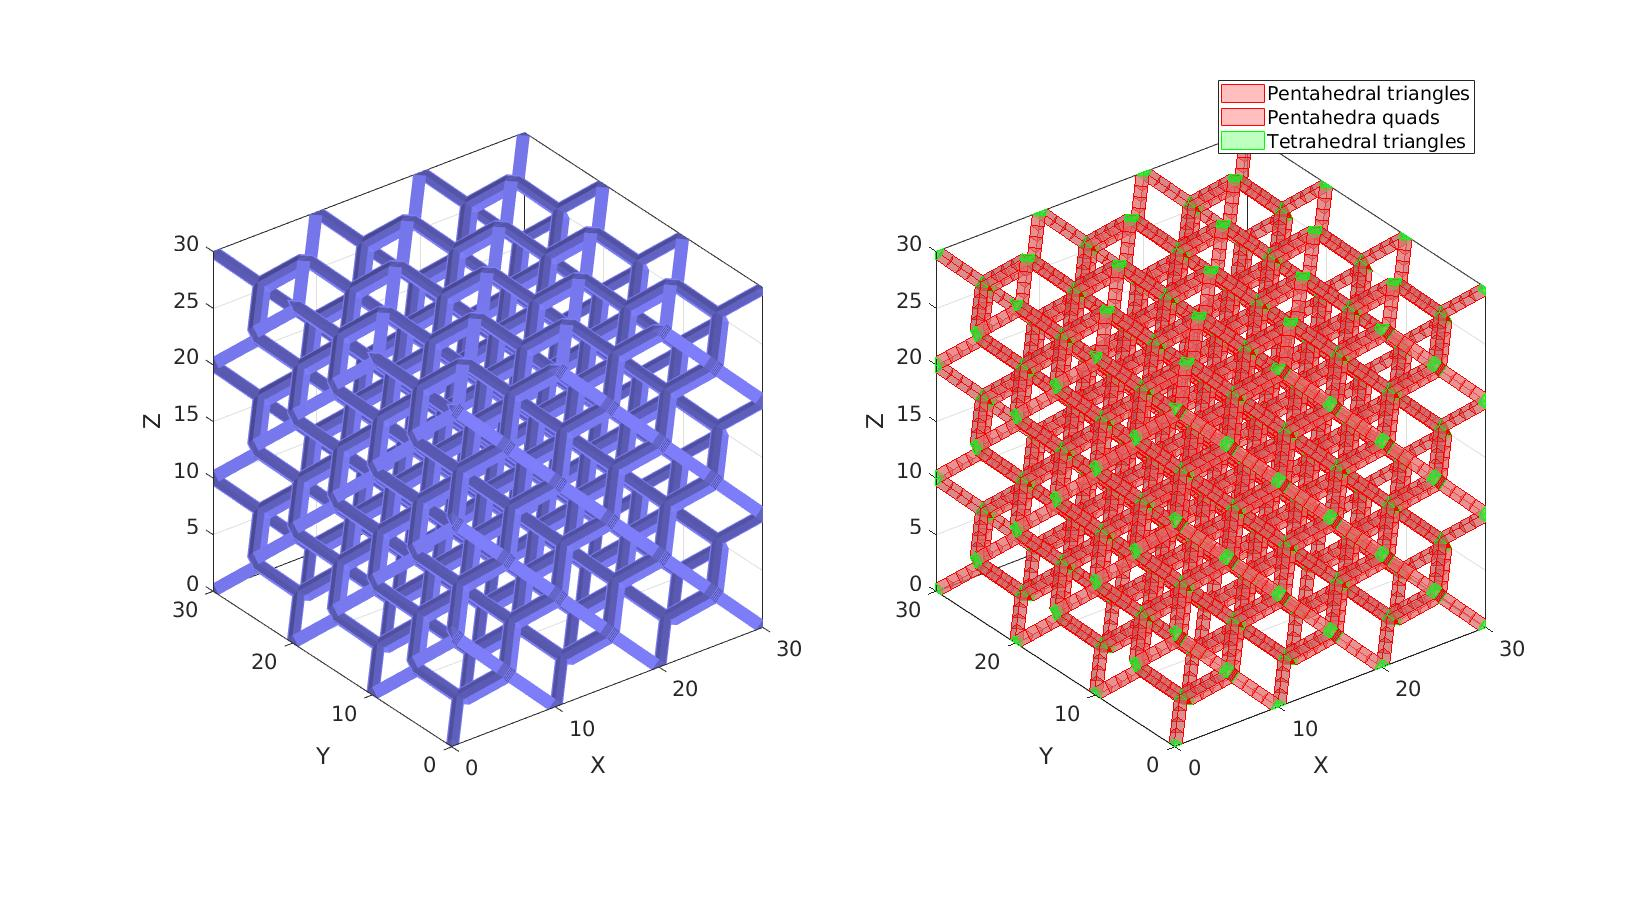
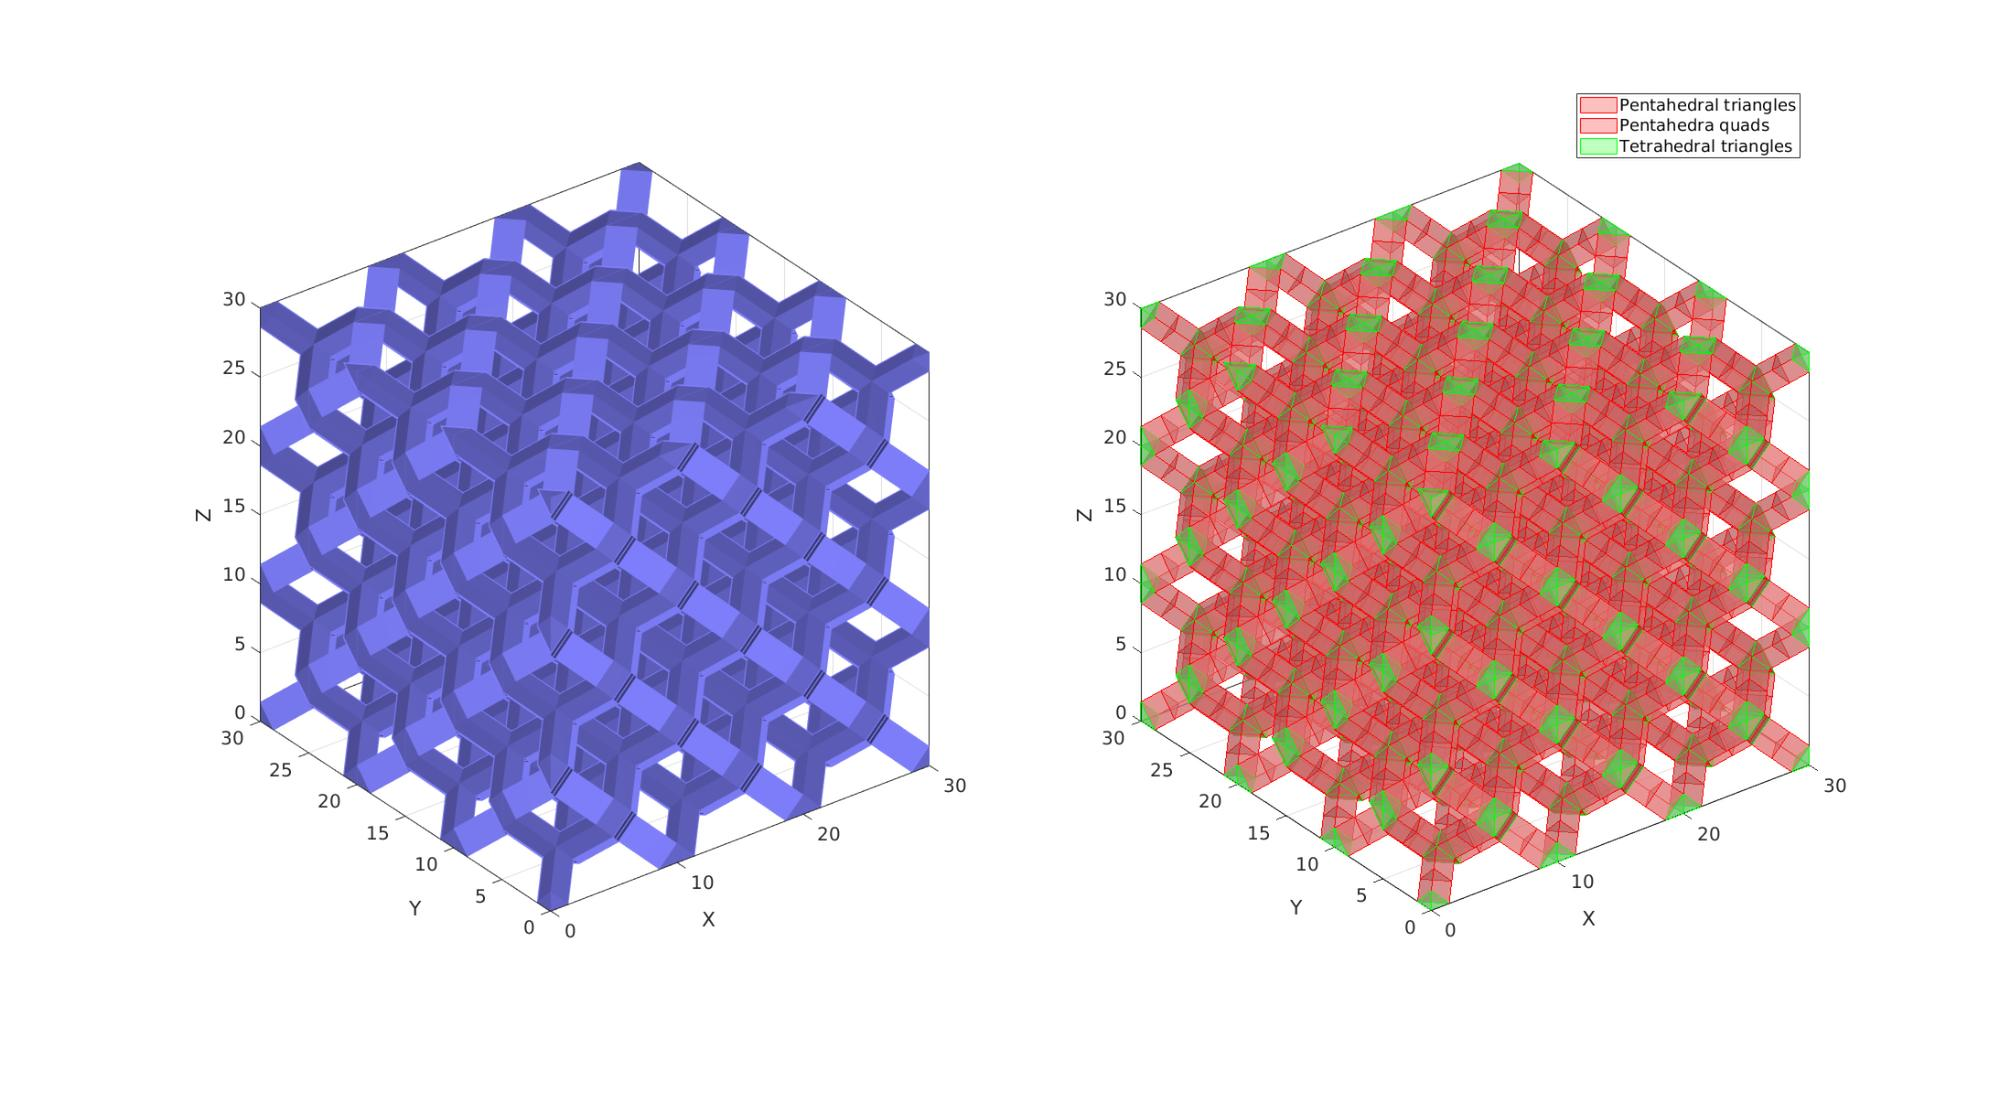
Updated diamond lattice documentation with loop subdivision demo

Changed region(s): [[0.528, 0.0615, 0.9318, 0.8606], [0.0932, 0.1537, 0.4659, 0.8606], [0.4659, 0.7069, 0.497, 0.7377]]

diff --git a/docs/html/HELP_diamondLattice.html b/docs/html/HELP_diamondLattice.html
@@ -6,7 +6,7 @@
    <!--
 This HTML was auto-generated from MATLAB code.
 To make changes, update the MATLAB code and republish this document.
-      --><title>diamondLattice</title><meta name="generator" content="MATLAB 9.10"><link rel="schema.DC" href="http://purl.org/dc/elements/1.1/"><meta name="DC.date" content="2021-05-11"><meta name="DC.source" content="HELP_diamondLattice.m"><style type="text/css">
+      --><title>diamondLattice</title><meta name="generator" content="MATLAB 9.10"><link rel="schema.DC" href="http://purl.org/dc/elements/1.1/"><meta name="DC.date" content="2021-08-18"><meta name="DC.source" content="HELP_diamondLattice.m"><style type="text/css">
 html,body,div,span,applet,object,iframe,h1,h2,h3,h4,h5,h6,p,blockquote,pre,a,abbr,acronym,address,big,cite,code,del,dfn,em,font,img,ins,kbd,q,s,samp,small,strike,strong,tt,var,b,u,i,center,dl,dt,dd,ol,ul,li,fieldset,form,label,legend,table,caption,tbody,tfoot,thead,tr,th,td{margin:0;padding:0;border:0;outline:0;font-size:100%;vertical-align:baseline;background:transparent}body{line-height:1}ol,ul{list-style:none}blockquote,q{quotes:none}blockquote:before,blockquote:after,q:before,q:after{content:'';content:none}:focus{outine:0}ins{text-decoration:none}del{text-decoration:line-through}table{border-collapse:collapse;border-spacing:0}
 
 html { min-height:100%; margin-bottom:1px; }
@@ -67,7 +67,7 @@ table td { padding:7px 5px; text-align:left; vertical-align:top; border:1px soli
 
 
 
-  </style></head><body><div class="content"><h1>diamondLattice</h1><!--introduction--><p>Below is a demonstration of the features of the <tt>diamondLattice</tt> function</p><!--/introduction--><h2>Contents</h2><div><ul><li><a href="#2">Syntax</a></li><li><a href="#3">Description</a></li><li><a href="#5">Examples</a></li><li><a href="#6">Create diamond lattice</a></li><li><a href="#7">Visualization</a></li></ul></div><pre class="codeinput">clear; close <span class="string">all</span>; clc;
+  </style></head><body><div class="content"><h1>diamondLattice</h1><!--introduction--><p>Below is a demonstration of the features of the <tt>diamondLattice</tt> function</p><!--/introduction--><h2>Contents</h2><div><ul><li><a href="#2">Syntax</a></li><li><a href="#3">Description</a></li><li><a href="#5">Examples</a></li><li><a href="#6">Create diamond lattice</a></li><li><a href="#8">Build refined and smooth triangulated surface mesh</a></li></ul></div><pre class="codeinput">clear; close <span class="string">all</span>; clc;
 </pre><h2 id="2">Syntax</h2><p><tt>[Ep,Et,VT,Ct]=diamondLattice(sampleSize,nRepeat,strutThickness,plotOn);</tt></p><h2 id="3">Description</h2><p>UNDOCUMENTED</p><p>Plotting settings</p><pre class="codeinput">fontSize=15;
 faceAlpha1=0.8;
 faceAlpha2=1;
@@ -79,8 +79,8 @@ cMap=gjet(4);
 </pre><h2 id="5">Examples</h2><pre class="codeinput"><span class="comment">%Latticeparameters</span>
 nRepeat=3; <span class="comment">%Number of repetitions of the lattice pattern</span>
 sampleSize=30;
-nSubPenta=2;
-strutThickness=1; <span class="comment">%Set the strut thickness</span>
+nSubPenta=1;
+strutThickness=2; <span class="comment">%Set the strut thickness</span>
 </pre><h2 id="6">Create diamond lattice</h2><pre class="codeinput">[Ep,Et,VT,Ct]=diamondLattice(sampleSize,nRepeat,strutThickness,0);
 [Ep,VT]=subPenta(Ep,VT,nSubPenta,3); <span class="comment">%Sub-divide pentahedra</span>
 <span class="comment">% strutThicknessCheck=mean(patchEdgeLengths(Fp{1},VT));</span>
@@ -88,7 +88,7 @@ strutThickness=1; <span class="comment">%Set the strut thickness</span>
 <span class="comment">%Get element faces for visualization</span>
 Fp=element2patch(Ep,[],<span class="string">'penta6'</span>);
 Ft=element2patch(Et,[],<span class="string">'tet4'</span>);
-</pre><h2 id="7">Visualization</h2><pre class="codeinput">cFigure;
+</pre><p>Visualization</p><pre class="codeinput">cFigure;
 subplot(1,2,1); hold <span class="string">on</span>;
 gpatch(Fp,VT,<span class="string">'bw'</span>,<span class="string">'none'</span>,1);
 gpatch(Ft,VT,<span class="string">'bw'</span>,<span class="string">'none'</span>,1);
@@ -101,7 +101,52 @@ legend(hpl,{<span class="string">'Pentahedral triangles'</span>,<span class="str
 axisGeom; camlight <span class="string">headlight</span>;
 
 drawnow;
-</pre><img width="100%" height="auto" vspace="5" hspace="5" src="HELP_diamondLattice_01.jpg" alt=""> <p><img vspace="5" hspace="5" src="gibbVerySmall.gif" alt=""> </p><p><i><b>GIBBON</b></i> <a href="www.gibboncode.org">www.gibboncode.org</a></p><p><i>Kevin Mattheus Moerman</i>, <a href="gibbon.toolbox@gmail.com">gibbon.toolbox@gmail.com</a></p><p><i><b>GIBBON footer text</b></i></p><p>License: <a href="https://github.com/gibbonCode/GIBBON/blob/master/LICENSE">https://github.com/gibbonCode/GIBBON/blob/master/LICENSE</a></p><p>GIBBON: The Geometry and Image-based Bioengineering add-On. A toolbox for image segmentation, image-based modeling, meshing, and finite element analysis.</p><p>Copyright (C) 2006-2021 Kevin Mattheus Moerman and the GIBBON contributors</p><p>This program is free software: you can redistribute it and/or modify it under the terms of the GNU General Public License as published by the Free Software Foundation, either version 3 of the License, or (at your option) any later version.</p><p>This program is distributed in the hope that it will be useful, but WITHOUT ANY WARRANTY; without even the implied warranty of MERCHANTABILITY or FITNESS FOR A PARTICULAR PURPOSE.  See the GNU General Public License for more details.</p><p>You should have received a copy of the GNU General Public License along with this program.  If not, see <a href="http://www.gnu.org/licenses/">http://www.gnu.org/licenses/</a>.</p><p class="footer"><br><a href="https://www.mathworks.com/products/matlab/">Published with MATLAB&reg; R2021a</a><br></p></div><!--
+</pre><img width="100%" height="auto" vspace="5" hspace="5" src="HELP_diamondLattice_01.jpg" alt=""> <h2 id="8">Build refined and smooth triangulated surface mesh</h2><pre class="codeinput">Fpt=[Fp{2}(:,[1 2 3]);Fp{2}(:,[3 4 1])];
+FT=[Fpt;Ft];
+[FT,VT]=patchCleanUnused(FT,VT);
+indB=tesBoundary(FT,VT);
+
+[FT,VT]=patchCleanUnused(FT(indB,:),VT);
+
+[C]=patchConnectivity(FT,VT,{<span class="string">'ev'</span>,<span class="string">'ef'</span>,<span class="string">'fe'</span>});
+conEdgeFace=C.edge.face;
+logicInvalid=sum(conEdgeFace&gt;0,2)&gt;2;
+E=C.edge.vertex;
+
+logicKeep=~all(ismember(C.face.edge,find(logicInvalid)),2);
+
+[FT,VT]=patchCleanUnused(FT(logicKeep,:),VT);
+
+CT=zeros(size(FT,1),1);
+<span class="keyword">for</span> q=1:1:3
+    X=VT(:,q);
+    XF=X(FT);
+    CT(all(XF&gt;=(max(X(:))-eps(max(X(:)))),2))=max(CT(:))+1;
+    CT(all(XF &lt;(min(X(:))+eps(min(X(:)))),2))=max(CT(:))+1;
+<span class="keyword">end</span>
+
+<span class="comment">% Refine using Loop-subdivision</span>
+n=2;
+logicConstrain=(CT&gt;0); <span class="comment">%Logic for faces to subdivide linearly</span>
+indConstrain=find(logicConstrain);
+indNotConstrain=find(~logicConstrain);
+
+[Fs1,Vs1,Cs1]=subTriLoop(FT(logicConstrain,:),VT,n);
+faceBoundaryMarker_sub1=CT(indConstrain(Cs1)); <span class="comment">%Get boundary markers for refined mesh</span>
+
+[Fs2,Vs2,Cs2]=subTriLoop(FT(~logicConstrain,:),VT,n);
+faceBoundaryMarker_sub2=CT(indNotConstrain(Cs2)); <span class="comment">%Get boundary markers for refined mesh</span>
+
+[Fs,Vs,Cs]=joinElementSets({Fs1,Fs2},{Vs1,Vs2},{faceBoundaryMarker_sub1,faceBoundaryMarker_sub2});
+
+[Fs,Vs]=patchCleanUnused(Fs,Vs);
+[Fs,Vs]=mergeVertices(Fs,Vs);
+</pre><p>Visualisation</p><pre class="codeinput">cFigure; hold <span class="string">on</span>;
+gpatch(Fs,Vs,Cs,<span class="string">'k'</span>,1);
+axisGeom; camlight <span class="string">headlight</span>;
+colormap <span class="string">gjet</span>; icolorbar;
+drawnow;
+</pre><img width="100%" height="auto" vspace="5" hspace="5" src="HELP_diamondLattice_02.jpg" alt=""> <p><img vspace="5" hspace="5" src="gibbVerySmall.gif" alt=""> </p><p><i><b>GIBBON</b></i> <a href="www.gibboncode.org">www.gibboncode.org</a></p><p><i>Kevin Mattheus Moerman</i>, <a href="gibbon.toolbox@gmail.com">gibbon.toolbox@gmail.com</a></p><p><i><b>GIBBON footer text</b></i></p><p>License: <a href="https://github.com/gibbonCode/GIBBON/blob/master/LICENSE">https://github.com/gibbonCode/GIBBON/blob/master/LICENSE</a></p><p>GIBBON: The Geometry and Image-based Bioengineering add-On. A toolbox for image segmentation, image-based modeling, meshing, and finite element analysis.</p><p>Copyright (C) 2006-2021 Kevin Mattheus Moerman and the GIBBON contributors</p><p>This program is free software: you can redistribute it and/or modify it under the terms of the GNU General Public License as published by the Free Software Foundation, either version 3 of the License, or (at your option) any later version.</p><p>This program is distributed in the hope that it will be useful, but WITHOUT ANY WARRANTY; without even the implied warranty of MERCHANTABILITY or FITNESS FOR A PARTICULAR PURPOSE.  See the GNU General Public License for more details.</p><p>You should have received a copy of the GNU General Public License along with this program.  If not, see <a href="http://www.gnu.org/licenses/">http://www.gnu.org/licenses/</a>.</p><p class="footer"><br><a href="https://www.mathworks.com/products/matlab/">Published with MATLAB&reg; R2021a</a><br></p></div><!--
 ##### SOURCE BEGIN #####
 %% diamondLattice
 % Below is a demonstration of the features of the |diamondLattice| function
@@ -132,8 +177,8 @@ cMap=gjet(4);
 %Latticeparameters
 nRepeat=3; %Number of repetitions of the lattice pattern
 sampleSize=30;
-nSubPenta=2;
-strutThickness=1; %Set the strut thickness
+nSubPenta=1;
+strutThickness=2; %Set the strut thickness
 
 %% Create diamond lattice
 
@@ -145,7 +190,8 @@ strutThickness=1; %Set the strut thickness
 Fp=element2patch(Ep,[],'penta6');
 Ft=element2patch(Et,[],'tet4');
 
-%% Visualization
+%% 
+% Visualization
 
 cFigure; 
 subplot(1,2,1); hold on; 
@@ -159,6 +205,58 @@ hpl(end+1)=gpatch(Ft,VT,'gw','g',0.5);
 legend(hpl,{'Pentahedral triangles','Pentahedra quads','Tetrahedral triangles'});
 axisGeom; camlight headlight; 
 
+drawnow;
+
+%% Build refined and smooth triangulated surface mesh
+
+Fpt=[Fp{2}(:,[1 2 3]);Fp{2}(:,[3 4 1])];
+FT=[Fpt;Ft];
+[FT,VT]=patchCleanUnused(FT,VT);
+indB=tesBoundary(FT,VT);
+
+[FT,VT]=patchCleanUnused(FT(indB,:),VT);
+
+[C]=patchConnectivity(FT,VT,{'ev','ef','fe'});
+conEdgeFace=C.edge.face;
+logicInvalid=sum(conEdgeFace>0,2)>2;
+E=C.edge.vertex; 
+
+logicKeep=~all(ismember(C.face.edge,find(logicInvalid)),2);
+
+[FT,VT]=patchCleanUnused(FT(logicKeep,:),VT);
+
+CT=zeros(size(FT,1),1);
+for q=1:1:3
+    X=VT(:,q);
+    XF=X(FT);
+    CT(all(XF>=(max(X(:))-eps(max(X(:)))),2))=max(CT(:))+1;
+    CT(all(XF <(min(X(:))+eps(min(X(:)))),2))=max(CT(:))+1;
+end
+
+% Refine using Loop-subdivision
+n=2;
+logicConstrain=(CT>0); %Logic for faces to subdivide linearly
+indConstrain=find(logicConstrain);
+indNotConstrain=find(~logicConstrain);
+
+[Fs1,Vs1,Cs1]=subTriLoop(FT(logicConstrain,:),VT,n);
+faceBoundaryMarker_sub1=CT(indConstrain(Cs1)); %Get boundary markers for refined mesh
+
+[Fs2,Vs2,Cs2]=subTriLoop(FT(~logicConstrain,:),VT,n);
+faceBoundaryMarker_sub2=CT(indNotConstrain(Cs2)); %Get boundary markers for refined mesh
+
+[Fs,Vs,Cs]=joinElementSets({Fs1,Fs2},{Vs1,Vs2},{faceBoundaryMarker_sub1,faceBoundaryMarker_sub2});
+
+[Fs,Vs]=patchCleanUnused(Fs,Vs); 
+[Fs,Vs]=mergeVertices(Fs,Vs);
+
+%%
+% Visualisation
+
+cFigure; hold on; 
+gpatch(Fs,Vs,Cs,'k',1);
+axisGeom; camlight headlight; 
+colormap gjet; icolorbar;
 drawnow;
 
 %%

diff --git a/docs/HELP_diamondLattice.m b/docs/HELP_diamondLattice.m
@@ -27,8 +27,8 @@ cMap=gjet(4);
 %Latticeparameters
 nRepeat=3; %Number of repetitions of the lattice pattern
 sampleSize=30;
-nSubPenta=2;
-strutThickness=1; %Set the strut thickness
+nSubPenta=1;
+strutThickness=2; %Set the strut thickness
 
 %% Create diamond lattice
 
@@ -40,7 +40,8 @@ strutThickness=1; %Set the strut thickness
 Fp=element2patch(Ep,[],'penta6');
 Ft=element2patch(Et,[],'tet4');
 
-%% Visualization
+%% 
+% Visualization
 
 cFigure; 
 subplot(1,2,1); hold on; 
@@ -54,6 +55,58 @@ hpl(end+1)=gpatch(Ft,VT,'gw','g',0.5);
 legend(hpl,{'Pentahedral triangles','Pentahedra quads','Tetrahedral triangles'});
 axisGeom; camlight headlight; 
 
+drawnow;
+
+%% Build refined and smooth triangulated surface mesh
+
+Fpt=[Fp{2}(:,[1 2 3]);Fp{2}(:,[3 4 1])];
+FT=[Fpt;Ft];
+[FT,VT]=patchCleanUnused(FT,VT);
+indB=tesBoundary(FT,VT);
+
+[FT,VT]=patchCleanUnused(FT(indB,:),VT);
+
+[C]=patchConnectivity(FT,VT,{'ev','ef','fe'});
+conEdgeFace=C.edge.face;
+logicInvalid=sum(conEdgeFace>0,2)>2;
+E=C.edge.vertex; 
+
+logicKeep=~all(ismember(C.face.edge,find(logicInvalid)),2);
+
+[FT,VT]=patchCleanUnused(FT(logicKeep,:),VT);
+
+CT=zeros(size(FT,1),1);
+for q=1:1:3
+    X=VT(:,q);
+    XF=X(FT);
+    CT(all(XF>=(max(X(:))-eps(max(X(:)))),2))=max(CT(:))+1;
+    CT(all(XF <(min(X(:))+eps(min(X(:)))),2))=max(CT(:))+1;
+end
+
+% Refine using Loop-subdivision
+n=2;
+logicConstrain=(CT>0); %Logic for faces to subdivide linearly
+indConstrain=find(logicConstrain);
+indNotConstrain=find(~logicConstrain);
+
+[Fs1,Vs1,Cs1]=subTriLoop(FT(logicConstrain,:),VT,n);
+faceBoundaryMarker_sub1=CT(indConstrain(Cs1)); %Get boundary markers for refined mesh
+
+[Fs2,Vs2,Cs2]=subTriLoop(FT(~logicConstrain,:),VT,n);
+faceBoundaryMarker_sub2=CT(indNotConstrain(Cs2)); %Get boundary markers for refined mesh
+
+[Fs,Vs,Cs]=joinElementSets({Fs1,Fs2},{Vs1,Vs2},{faceBoundaryMarker_sub1,faceBoundaryMarker_sub2});
+
+[Fs,Vs]=patchCleanUnused(Fs,Vs); 
+[Fs,Vs]=mergeVertices(Fs,Vs);
+
+%%
+% Visualisation
+
+cFigure; hold on; 
+gpatch(Fs,Vs,Cs,'k',1);
+axisGeom; camlight headlight; 
+colormap gjet; icolorbar;
 drawnow;
 
 %%
